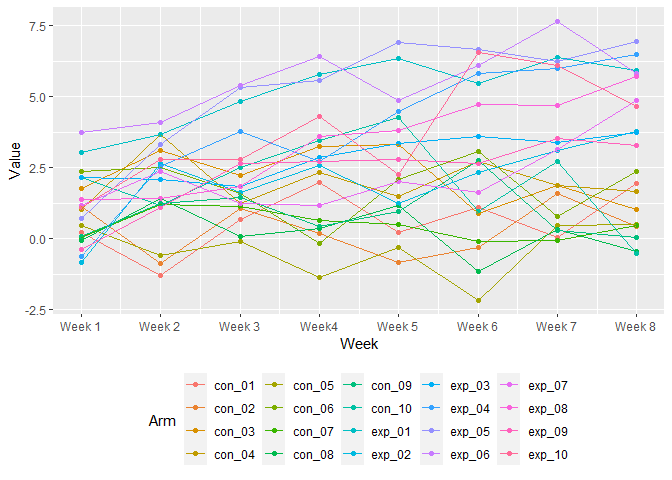
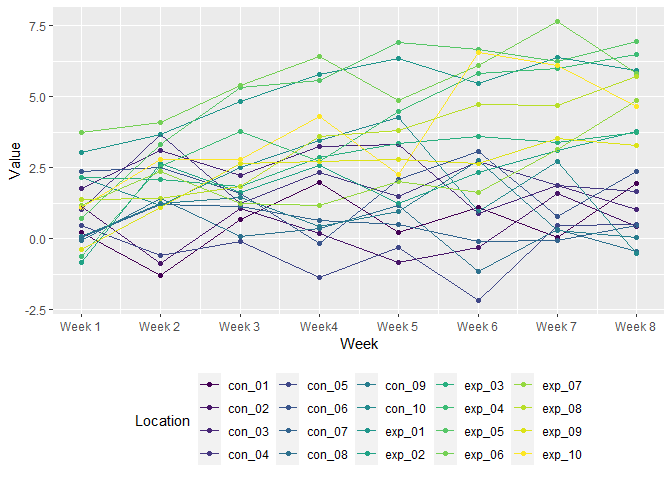
some changes

diff --git a/p8105_hw5_yb2584.md b/p8105_hw5_yb2584.md
@@ -120,12 +120,19 @@ setwd("C:/Users/Leon/Desktop/p8105_hw5_yb2584/data/data")
 output=map(files_name,read_csv)
 ```
 
+Create a tidy dataframe containing data from all participants, including
+the subject ID, arm, and observations over time.
+
 ``` r
 dt=
   do.call(rbind.data.frame, output)|>
-  mutate(arm=str_remove(files_name,".csv"))|>
-  select(arm,everything())
+  mutate(arm_id=str_remove(files_name,".csv"))|>
+  mutate(arm=strsplit(arm_id,"_")[[1]][1],id=strsplit(arm_id,"_")[[1]][2])|>
+  select(arm_id,arm,id,everything())
 ```
+
+Make a spaghetti plot showing observations on each subject over time,
+and comment on differences between groups.
 
 ``` r
 dt|>
@@ -135,7 +142,7 @@ dt|>
     values_to = "value"
   )|>
   mutate(num=rep(1:8,20))|>
-ggplot(aes(x=num,y=value,color=arm))+
+ggplot(aes(x=num,y=value,color=arm_id))+
   geom_point()+
   geom_line()+
   scale_x_continuous(
@@ -144,14 +151,28 @@ ggplot(aes(x=num,y=value,color=arm))+
   labs(
     x="Week",
     y="Value",
-    color="Arm"
+    color="Arm and ID"
   )+
-  theme(legend.position = "bottom")
+  theme(legend.position = "bottom")+ 
+  viridis::scale_color_viridis(
+    name = "Location", 
+    discrete = TRUE
+  )
 ```
 
 ![](p8105_hw5_yb2584_files/figure-gfm/unnamed-chunk-9-1.png)<!-- -->
 
+From above plot, we can know that generally the value for experimental
+arm is higher than control arm, and this trend will become more obvious
+over time.
+
 ## Problem 3
+
+In this problem, we will conduct a simulation to explore power in a
+one-sample t-test. We fix $n=30$ and $\sigma=5$, generate 5000 dataset
+from the model $x \sim Normal(\mu,\sigma)$. For each dataset, save
+$\hat{\mu}$ and the p-value arising from a hypothesis test using
+$\alpha=0.05$
 
 ``` r
 est_mu=rep(0,5000)
@@ -172,7 +193,7 @@ p_val=rep(0,5000)
 for(i in 1:5000)
 {
   sam=rnorm(30,1,5)
-  res=t.test(sam,mu=1)
+  res=t.test(sam,mu=0)
   est_mu[i]=mean(sam)
   p_val[i]=broom::tidy(res)$p.value
 }
@@ -185,7 +206,7 @@ p_val=rep(0,5000)
 for(i in 1:5000)
 {
   sam=rnorm(30,2,5)
-  res=t.test(sam,mu=2)
+  res=t.test(sam,mu=0)
   est_mu[i]=mean(sam)
   p_val[i]=broom::tidy(res)$p.value
 }
@@ -198,7 +219,7 @@ p_val=rep(0,5000)
 for(i in 1:5000)
 {
   sam=rnorm(30,3,5)
-  res=t.test(sam,mu=3)
+  res=t.test(sam,mu=0)
   est_mu[i]=mean(sam)
   p_val[i]=broom::tidy(res)$p.value
 }
@@ -211,7 +232,7 @@ p_val=rep(0,5000)
 for(i in 1:5000)
 {
   sam=rnorm(30,4,5)
-  res=t.test(sam,mu=4)
+  res=t.test(sam,mu=0)
   est_mu[i]=mean(sam)
   p_val[i]=broom::tidy(res)$p.value
 }
@@ -224,7 +245,7 @@ p_val=rep(0,5000)
 for(i in 1:5000)
 {
   sam=rnorm(30,5,5)
-  res=t.test(sam,mu=5)
+  res=t.test(sam,mu=0)
   est_mu[i]=mean(sam)
   p_val[i]=broom::tidy(res)$p.value
 }
@@ -237,12 +258,16 @@ p_val=rep(0,5000)
 for(i in 1:5000)
 {
   sam=rnorm(30,6,5)
-  res=t.test(sam,mu=6)
+  res=t.test(sam,mu=0)
   est_mu[i]=mean(sam)
   p_val[i]=broom::tidy(res)$p.value
 }
 mu_6=data.frame(est_mu,p_val)
 ```
+
+Make a plot showing the proportion of times the null was rejected (the
+power of the test) on the y axis and the true value of $\mu$ on the x
+axis.
 
 ``` r
 data.frame(mu=0:6,prop=c(sum(mu_0$p_val<0.05)/5000,
@@ -263,6 +288,12 @@ data.frame(mu=0:6,prop=c(sum(mu_0$p_val<0.05)/5000,
 
 ![](p8105_hw5_yb2584_files/figure-gfm/unnamed-chunk-17-1.png)<!-- -->
 
+From the above plot, we the effect size get higher, the power of the t
+test get higher.
+
+Make a plot showing the average estimate of $\hat{\mu}$ on the y axis
+and the true value of $\mu$ on the x axis.
+
 ``` r
 data.frame(mu=0:6,est_mu=c(mean(mu_0$est_mu),
                          mean(mu_1$est_mu),
@@ -282,24 +313,9 @@ data.frame(mu=0:6,est_mu=c(mean(mu_0$est_mu),
 
 ![](p8105_hw5_yb2584_files/figure-gfm/unnamed-chunk-18-1.png)<!-- -->
 
-``` r
-data.frame(mu=0:6,prop=c(sum(mu_0$p_val<0.05)/5000,
-                         sum(mu_1$p_val<0.05)/5000,
-                         sum(mu_2$p_val<0.05)/5000,
-                         sum(mu_3$p_val<0.05)/5000,
-                         sum(mu_4$p_val<0.05)/5000,
-                         sum(mu_5$p_val<0.05)/5000,
-                         sum(mu_6$p_val<0.05)/5000))|>
-  ggplot(aes(x=mu,y=prop,fill=mu))+
-  geom_bar(stat="identity")+
-  labs(
-    x="mu",
-    y="Proportion",
-    color="mu"
-  )
-```
-
-![](p8105_hw5_yb2584_files/figure-gfm/unnamed-chunk-19-1.png)<!-- -->
+Make a second plot the average estimate of $\hat{\mu}$ only in samples
+for which the null was rejected on the y axis and the true value of
+$\mu$ on the x axis.
 
 ``` r
 data.frame(mu=0:6,est_mu=c(mean(mu_0$est_mu[mu_0$p_val<0.05]),
@@ -318,4 +334,11 @@ data.frame(mu=0:6,est_mu=c(mean(mu_0$est_mu[mu_0$p_val<0.05]),
   )
 ```
 
-![](p8105_hw5_yb2584_files/figure-gfm/unnamed-chunk-20-1.png)<!-- -->
+![](p8105_hw5_yb2584_files/figure-gfm/unnamed-chunk-19-1.png)<!-- -->
+
+From above two plots, the sample average of $\hat{\mu}$ across tests for
+which the null is rejected is approximately equal to the true value of
+$\mu$. Since the $\hat{\mu}$ across tests for which the null is rejected
+could be significantly smaller or larger than the true value of $\mu$,
+the sample average of $\hat{\mu}$ across tests for which the null is
+rejected will be not far from the true value of $\mu$.
